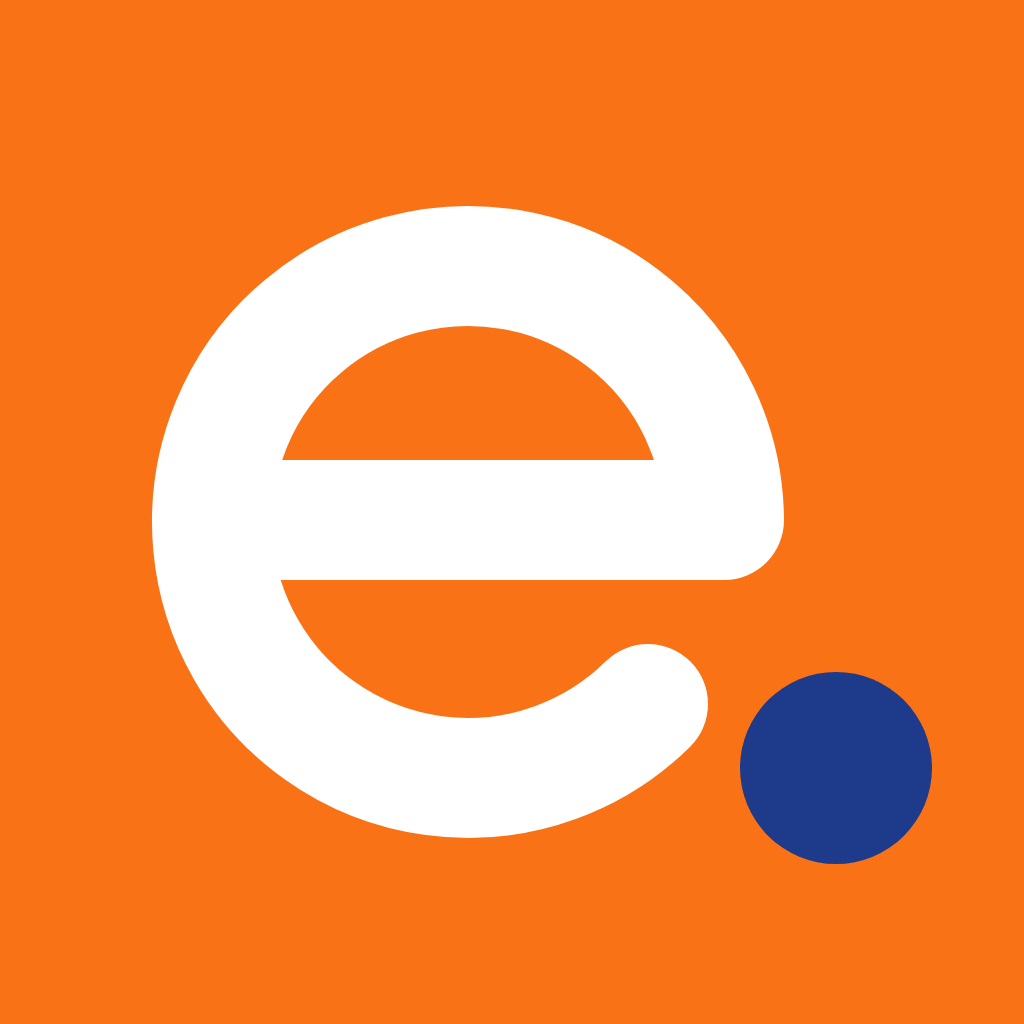
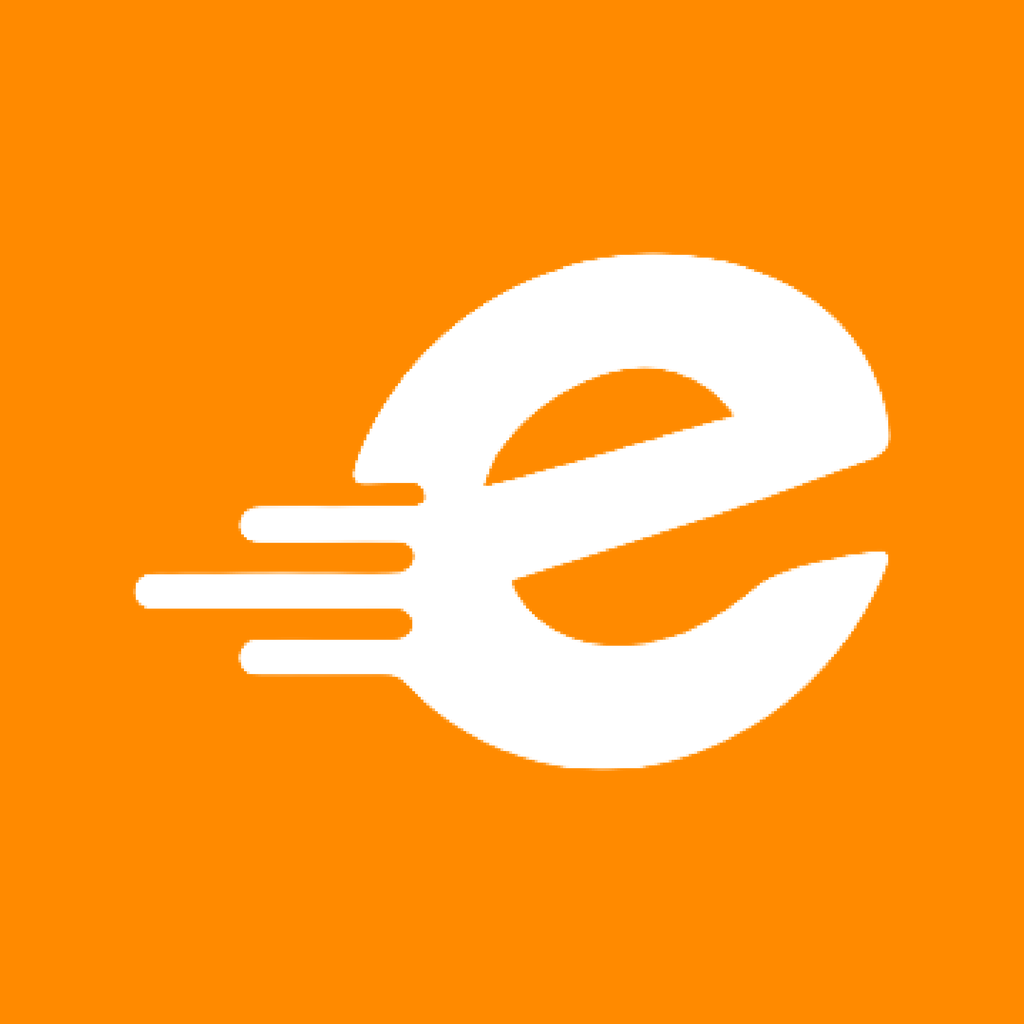
Mobil uygulamalar yeni markada: hız çizgili "e" simgesi, lacivert/turuncu renkler
- Müşteri: lacivert (#1b2f6e) zeminde turuncu "e"; firma: turuncu (#ff8a00) zeminde beyaz "e"
- Simge, Android uyarlanır simge, tek renk simge, açılış ve bildirim simgesi kullanıcının logosundan üretildi
- Uygulama renkleri sitedeki paletle aynı (theme.ts)
- Giriş ekranında sitedeki tam logo

Claude-Session: https://claude.ai/code/session_019o7Qg42yNcP4jL9f5TsVDA

Changed region(s): [[0.125, 0.1875, 0.9062, 0.8438]]

diff --git a/apps/mobile/src/components/ui.tsx b/apps/mobile/src/components/ui.tsx
@@ -234,7 +234,7 @@ const MARKS = {
   musteri: require('../../assets/musteri/icon.png'),
 } as const;
 
-/** Marka işareti: kalın "e" ve nokta; firma uygulamasında turuncu zemin */
+/** Marka işareti: hız çizgili "e"; müşteri uygulamasında lacivert, firma uygulamasında turuncu zemin */
 export function LogoMark({ size = 40 }: { size?: number }) {
   return (
     <Image
@@ -245,13 +245,20 @@ export function LogoMark({ size = 40 }: { size?: number }) {
   );
 }
 
+const LOGO = require('../../assets/logo.png');
+const LOGO_RATIO = 1200 / 161;
+
+/** Giriş ekranındaki tam logo (sitedekiyle aynı); firma uygulamasında altında "Firma" etiketi */
 export function Wordmark() {
+  const height = 30;
   return (
-    <View style={{ flexDirection: 'row', alignItems: 'center', gap: 10 }}>
-      <LogoMark size={36} />
-      <AppText weight="bold" style={{ fontSize: 17, color: colors.zinc900, letterSpacing: -0.3 }}>
-        evdenevenakliyat<AppText weight="bold" style={{ color: colors.accent700 }}>.app</AppText>
-      </AppText>
+    <View accessible accessibilityRole="image" accessibilityLabel={variant === 'firma' ? 'Evden Eve Nakliyat Firma' : 'Evden Eve Nakliyat'} style={{ gap: 6 }}>
+      <Image source={LOGO} style={{ width: height * LOGO_RATIO, height }} resizeMode="contain" />
+      {variant === 'firma' ? (
+        <AppText weight="semibold" style={{ color: colors.accent700, fontSize: 13, letterSpacing: 1 }}>
+          FİRMA UYGULAMASI
+        </AppText>
+      ) : null}
     </View>
   );
 }

diff --git a/apps/mobile/src/theme.ts b/apps/mobile/src/theme.ts
@@ -1,13 +1,13 @@
 /** Web'deki görsel kimlikle aynı renkler (apps/web/src/app/globals.css). */
 export const colors = {
-  brand50: '#eff4ff',
-  brand100: '#dbe6fe',
-  brand600: '#1d4ed8',
-  brand700: '#1e3a8a',
-  brand900: '#172554',
-  accent50: '#fff7ed',
-  accent500: '#f97316',
-  accent700: '#c2410c',
+  brand50: '#eef2fb',
+  brand100: '#dce4f6',
+  brand600: '#2e4a9c',
+  brand700: '#1b2f6e',
+  brand900: '#111e48',
+  accent50: '#fff6ea',
+  accent500: '#ff8a00',
+  accent700: '#a34c00',
   zinc50: '#fafafa',
   zinc100: '#f4f4f5',
   zinc200: '#e4e4e7',
@@ -24,8 +24,8 @@ export const colors = {
   amber300: '#fcd34d',
   amber500: '#f59e0b',
   amber900: '#78350f',
-  accent100: '#ffedd5',
-  accent900: '#7c2d12',
+  accent100: '#ffead0',
+  accent900: '#6a3300',
 } as const;
 
 /** Inter, kök düzende yüklenir (src/app/_layout.tsx) */

diff --git a/apps/mobile/app.config.ts b/apps/mobile/app.config.ts
@@ -13,7 +13,7 @@ const VARIANTS = {
     slug: 'evdenevenakliyat-firma',
     scheme: 'evdenevenakliyat-firma',
     id: 'app.evdenevenakliyat.firma',
-    background: '#f97316',
+    background: '#ff8a00',
     /** expo.dev'deki projenin kimliği (gizli değildir) */
     easProjectId: '084d903b-b052-4101-8a94-e6153827d0b7' as string | undefined,
     imagePicker: {
@@ -26,7 +26,7 @@ const VARIANTS = {
     slug: 'evdenevenakliyat',
     scheme: 'evdenevenakliyat',
     id: 'app.evdenevenakliyat.musteri',
-    background: '#1e3a8a',
+    background: '#1b2f6e',
     easProjectId: '724e123c-2655-4a5a-8541-e3dae4cac277' as string | undefined,
     imagePicker: {
       cameraPermission: 'Eşyalarının fotoğrafını çekip talebine ekleyebilmen için kamera izni gerekiyor.',

diff --git a/apps/mobile/README.md b/apps/mobile/README.md
@@ -4,8 +4,8 @@ Tek Expo kod tabanından iki uygulama çıkar:
 
 | Uygulama | Kimin için | Paket kimliği | Simge |
 | --- | --- | --- | --- |
-| **Evdenevenakliyat Firma** | Nakliyat firmaları (COMPANY) | `app.evdenevenakliyat.firma` | turuncu zemin |
-| **Evdenevenakliyat** | Taşınacak kişiler (CUSTOMER) | `app.evdenevenakliyat.musteri` | gece mavisi zemin |
+| **Evdenevenakliyat Firma** | Nakliyat firmaları (COMPANY) | `app.evdenevenakliyat.firma` | turuncu zemin, beyaz "e" |
+| **Evdenevenakliyat** | Taşınacak kişiler (CUSTOMER) | `app.evdenevenakliyat.musteri` | lacivert zemin, turuncu "e" |
 
 Hangisinin derleneceğini `APP_VARIANT` (`firma` / `musteri`) belirler (`app.config.ts`).
 Giriş ikisinde de aynı (telefon + şifre, `POST /v1/auth/login`); hesabın rolü uygulamaya
